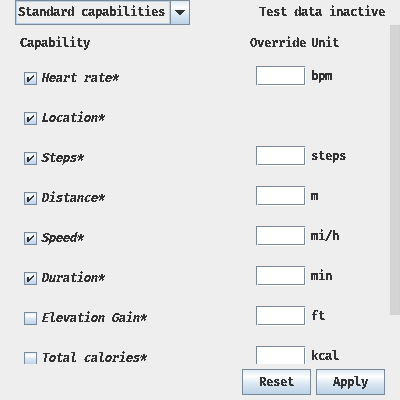
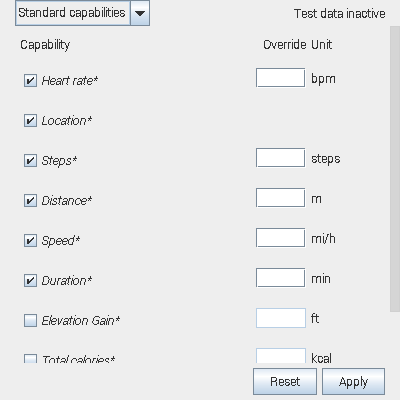
Update golden images for wear-whs screenshot tests
Bug: 315869760
Test: WearHealthServicesToolWindowTest

diff --git a/wear-whs/testSrc/com/android/tools/idea/wearwhs/view/WearHealthServicesToolWindowTest.kt b/wear-whs/testSrc/com/android/tools/idea/wearwhs/view/WearHealthServicesToolWindowTest.kt
@@ -24,7 +24,6 @@ import com.android.tools.idea.testing.AndroidProjectRule
 import com.android.tools.idea.wearwhs.WHS_CAPABILITIES
 import com.android.tools.idea.wearwhs.communication.FakeDeviceManager
 import com.intellij.openapi.util.Disposer
-import com.intellij.openapi.util.SystemInfo
 import com.intellij.testFramework.EdtRule
 import com.intellij.testFramework.RunsInEdt
 import kotlinx.coroutines.TimeoutCancellationException
@@ -64,11 +63,6 @@ class WearHealthServicesToolWindowTest {
 
   @Test
   fun `test panel screenshot matches expectation for current platform`() = runBlocking {
-    // Fails on Windows: b/315869760
-    if (SystemInfo.isWindows) {
-      return@runBlocking
-    }
-
     val fakeUi = FakeUi(toolWindow)
 
     fakeUi.waitForCheckbox("Heart rate", true)
@@ -87,11 +81,6 @@ class WearHealthServicesToolWindowTest {
 
   @Test
   fun `test panel screenshot matches expectation with modified state manager values`() = runBlocking {
-    // Fails on Windows: b/315869760
-    if (SystemInfo.isWindows) {
-      return@runBlocking
-    }
-
     stateManager.getCapabilitiesList().waitForValue(deviceManager.capabilities)
 
     deviceManager.failState = true

diff --git a/wear-whs/src/com/android/tools/idea/wearwhs/view/WearHealthServicesToolWindow.kt b/wear-whs/src/com/android/tools/idea/wearwhs/view/WearHealthServicesToolWindow.kt
@@ -194,7 +194,7 @@ internal class WearHealthServicesToolWindow(private val stateManager: WearHealth
                   textField.text = it?.toString() ?: ""
                 }
               }.launchIn(uiScope)
-              textField.preferredSize = Dimension(50, preferredSize.height)
+              textField.preferredSize = Dimension(JBUI.scale(50), JBUI.scale(20))
               textField.isEnabled = checkBox.isSelected
               checkBox.selected.addListener {
                 textField.isEnabled = it
@@ -203,7 +203,7 @@ internal class WearHealthServicesToolWindow(private val stateManager: WearHealth
             })
             add(JLabel(message(capability.unitKey)).also { label ->
               label.isVisible = capability.isOverrideable
-              label.preferredSize = Dimension(50, label.preferredSize.height)
+              label.preferredSize = Dimension(JBUI.scale(50), JBUI.scale(20))
             })
           }, BorderLayout.EAST)
         })
